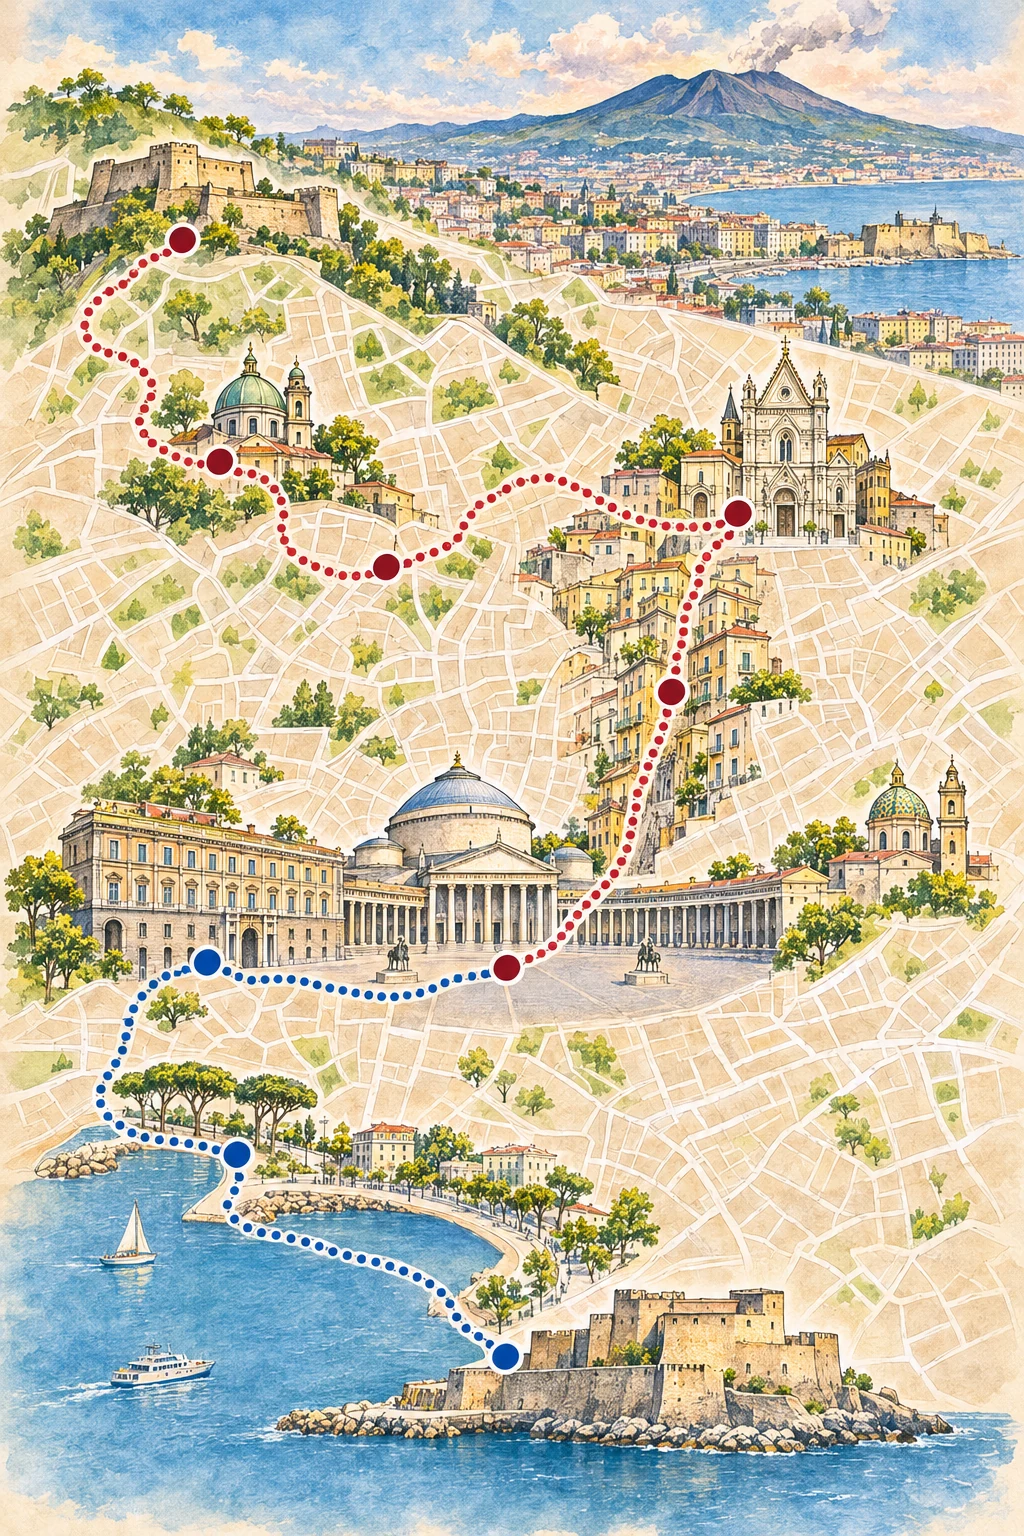
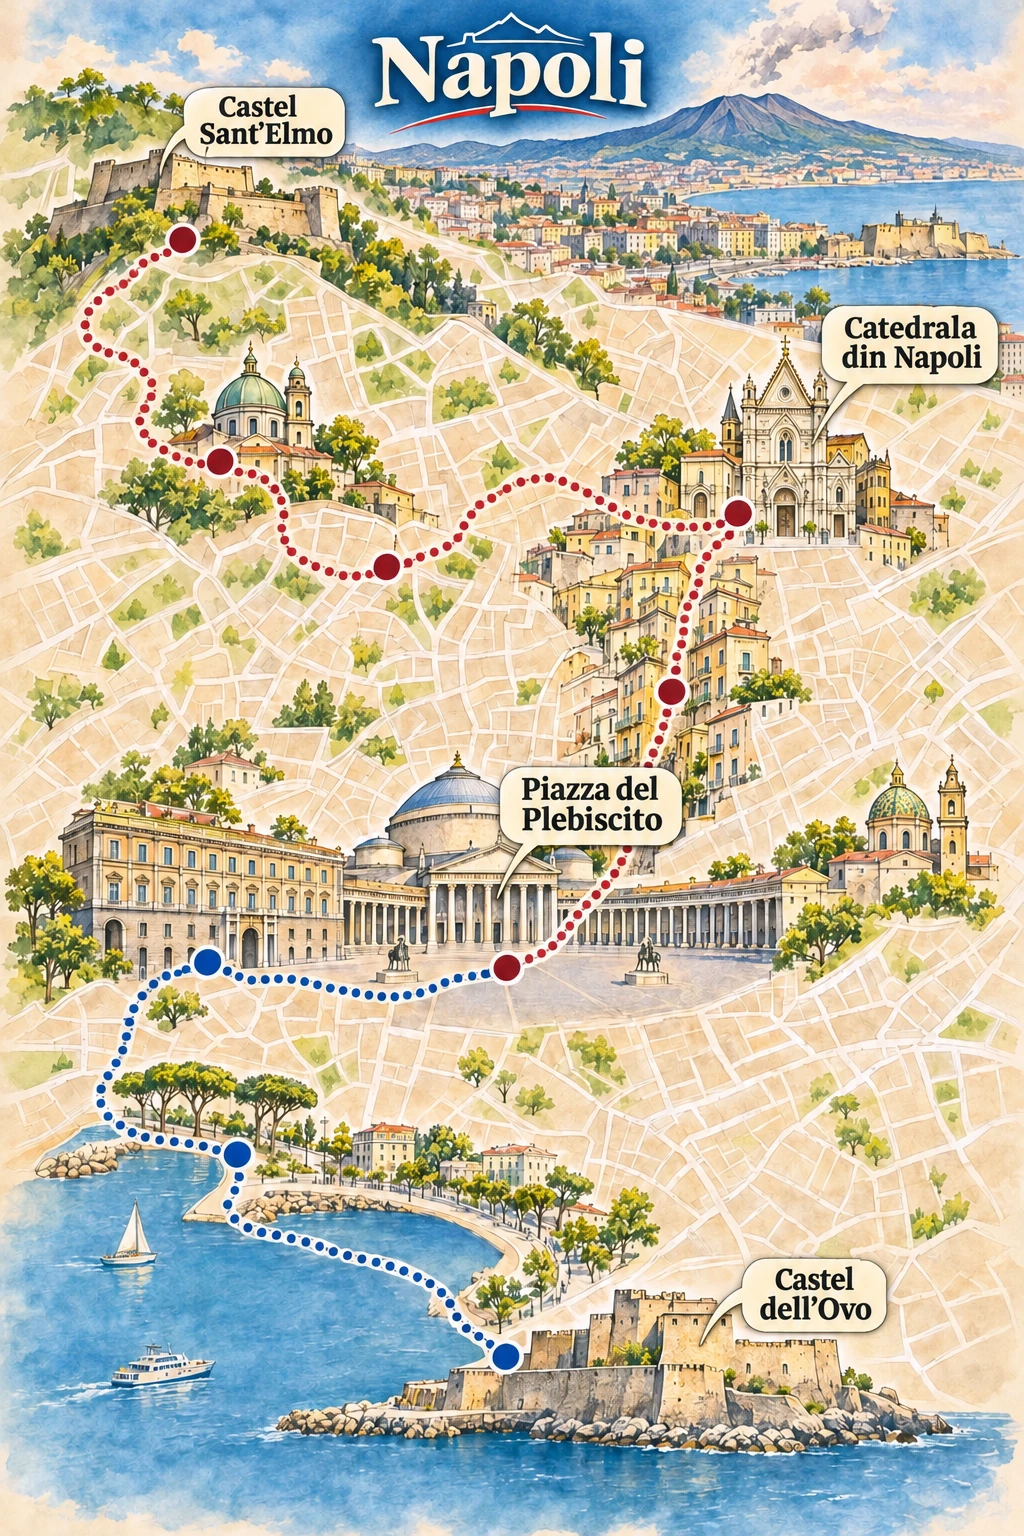
Label five more European city maps

diff --git a/ILUSTRATII.md b/ILUSTRATII.md
@@ -33,9 +33,14 @@ Se adaugă numele obiectivelor direct pe hărțile existente, în stilul aprobat
 - Bratislava
 - Sofia
 - Oslo
+- Bari
+- Napoli
+- Sevilla
+- Istanbul
+- Dubrovnik
 
 Harta originală pentru Praga avea deja etichete. Celelalte orașe din `assets/guides-prague-style/` necesită în continuare verificare și prelucrare. Actualizează această listă în același commit cu fiecare lot nou.
 
-Ilustrațiile fără etichete sunt păstrate în istoricul Git: pentru Roma și Barcelona folosește fișierul de la commitul `14f016a`, iar pentru Paris, Londra, Lisabona, Berlin și Bruxelles de la `508e691`. Pentru Budapesta, Atena, Veneția, Amsterdam, Viena, Milano, Madrid, Bologna, Lyon, Porto, Varșovia, Copenhaga, Edinburgh, Bruges, Köln, Dublin, Cracovia, Stockholm, Chișinău, Bratislava, Sofia și Oslo se pot folosi originalele de la `48efdd5`. Copii locale sunt în `/workspace/guide-batch/original-illustrations` când acel director este disponibil. Păstrează imaginile originale pentru quiz.
+Ilustrațiile fără etichete sunt păstrate în istoricul Git: pentru Roma și Barcelona folosește fișierul de la commitul `14f016a`, iar pentru Paris, Londra, Lisabona, Berlin și Bruxelles de la `508e691`. Pentru Budapesta, Atena, Veneția, Amsterdam, Viena, Milano, Madrid, Bologna, Lyon, Porto, Varșovia, Copenhaga, Edinburgh, Bruges, Köln, Dublin, Cracovia, Stockholm, Chișinău, Bratislava, Sofia, Oslo, Bari, Napoli, Sevilla, Istanbul și Dubrovnik se pot folosi originalele de la `48efdd5`. Copii locale sunt în `/workspace/guide-batch/original-illustrations` când acel director este disponibil. Păstrează imaginile originale pentru quiz.
 
 Nu modifica funcționalitatea de căutare a zborurilor în cadrul acestei activități.
